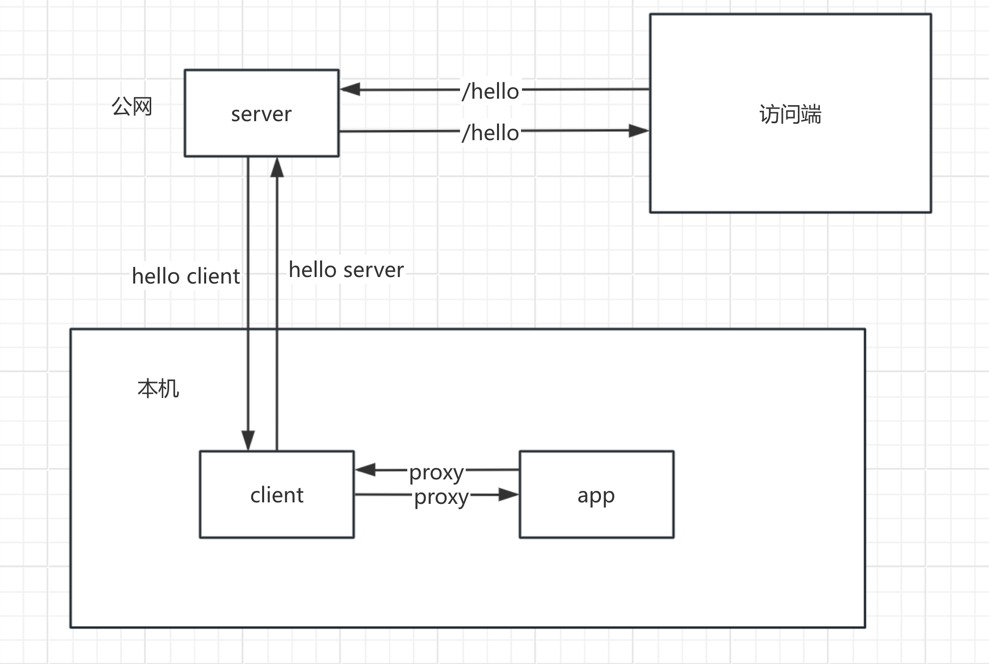
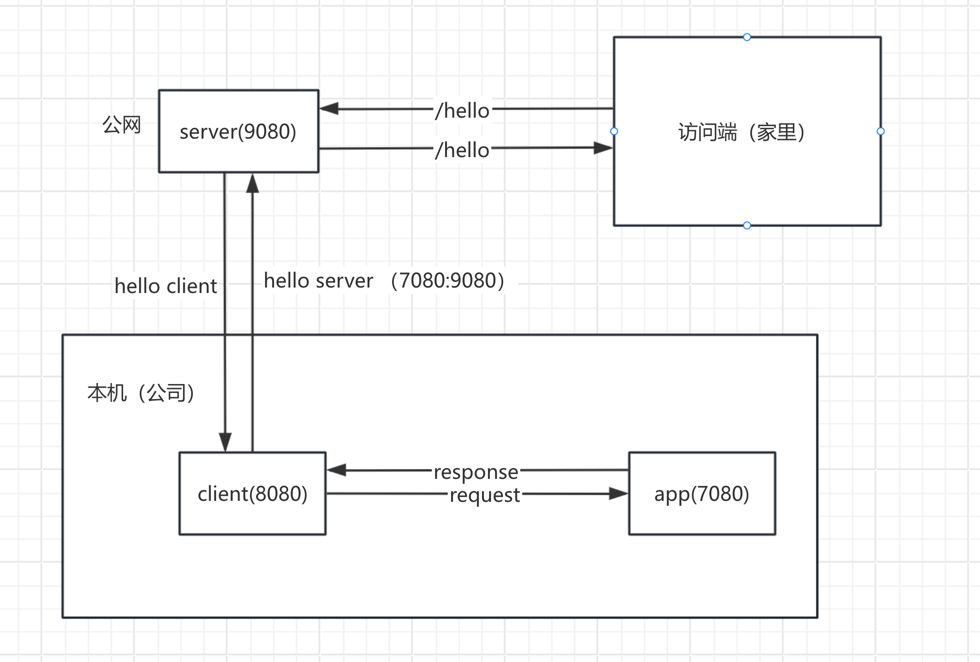
refactor(internalpenetration): 重构内部渗透工具
- 重构了 CopyOnConn 函数，优化了数据复制逻辑
- 更新了 client 和 server 程序的实现，提高了代码复用性
- 改进了错误处理和日志

Changed region(s): [[0.0612, 0.0, 0.949, 0.9668]]

diff --git a/proxy/client/main.go b/proxy/client/main.go
@@ -2,14 +2,9 @@ package main
 
 import (
 	"fmt"
-	"log"
-	"net"
-	"os"
-	"os/exec"
-	"os/signal"
-	"syscall"
-
 	"github.com/songgao/water"
+	"log"
+	"os/exec"
 )
 
 func main() {
@@ -32,40 +27,41 @@ func main() {
 		log.Fatalf("Failed to set TUN IP address: %v", err)
 	}
 
-	serverConn, err := net.Dial("tcp", "127.0.0.1:9080")
-	if err != nil {
-		fmt.Println("Error dialing:", err)
-		return
-	}
-	defer serverConn.Close()
-
-	_, err = serverConn.Write([]byte("hello server"))
-	if err != nil {
-		fmt.Println("Error writing to server:", err)
-		return
-	}
-
-	buf := make([]byte, 1024)
-	n, err := serverConn.Read(buf)
-	if err != nil {
-		fmt.Println("Error reading from server:", err)
-		return
-	}
-	if msg := string(buf[:n]); msg != "hello client" {
-		fmt.Println("receive server request error!!!")
-		return
-	}
+	//serverConn, err := net.Dial("tcp", "127.0.0.1:9080")
+	//if err != nil {
+	//	fmt.Println("Error dialing:", err)
+	//	return
+	//}
+	//defer serverConn.Close()
+	//
+	//_, err = serverConn.Write([]byte("hello server"))
+	//if err != nil {
+	//	fmt.Println("Error writing to server:", err)
+	//	return
+	//}
+	//
+	//buf := make([]byte, 1024)
+	//n, err := serverConn.Read(buf)
+	//if err != nil {
+	//	fmt.Println("Error reading from server:", err)
+	//	return
+	//}
+	//if msg := string(buf[:n]); msg != "hello client" {
+	//	fmt.Println("receive server request error!!!")
+	//	return
+	//}
 
 	// 读取 TUN 设备的数据包
-	//buffer := make([]byte, 1024*1024)
-	//for {
-	//	n, err := tun.Read(buffer)
-	//	if err != nil {
-	//		log.Printf("Error reading from TUN device: %v", err)
-	//		continue
-	//	}
-	//	fmt.Printf("Received a packet of length %d\n", n)
-	//}
+	buffer := make([]byte, 1024*1024)
+	for {
+		n, err := tun.Read(buffer)
+		if err != nil {
+			log.Printf("Error reading from TUN device: %v", err)
+			continue
+		}
+		fmt.Printf("Received a packet of length %d\n", n)
+		fmt.Println(string(buffer[:n]))
+	}
 
 	//go func() {
 	//	_, err := io.Copy(serverConn, tun)
@@ -84,10 +80,10 @@ func main() {
 	//}()
 	//
 	// 处理系统信号，用于优雅退出
-	sigs := make(chan os.Signal, 1)
-	signal.Notify(sigs, syscall.SIGINT, syscall.SIGTERM)
-	<-sigs
-	fmt.Println("Received termination signal, exiting...")
+	//sigs := make(chan os.Signal, 1)
+	//signal.Notify(sigs, syscall.SIGINT, syscall.SIGTERM)
+	//<-sigs
+	//fmt.Println("Received termination signal, exiting...")
 }
 
 func setTunIpForMac(tunName, localIp, remoteIp, netmask string) error {

diff --git a/internalpenetration/util.go b/internalpenetration/util.go
@@ -1,12 +1,13 @@
 package internalpenetration
 
 import (
-	"fmt"
 	"io"
+	"log"
 	"net"
 	"sync"
 )
 
+// CopyOnConn 负责dst和src的数据复制
 func CopyOnConn(dst *net.TCPConn, src *net.TCPConn) {
 	defer dst.Close()
 	defer src.Close()
@@ -18,7 +19,7 @@ func CopyOnConn(dst *net.TCPConn, src *net.TCPConn) {
 		defer dst.CloseWrite()
 		_, err := io.Copy(dst, src)
 		if err != nil {
-			fmt.Printf("%s->%s Error writing to client: %v \n", src.LocalAddr(), dst.LocalAddr(), err)
+			log.Printf("%s->%s Error writing to client: %v \n", src.LocalAddr(), dst.LocalAddr(), err)
 			return
 		}
 	}()
@@ -28,7 +29,7 @@ func CopyOnConn(dst *net.TCPConn, src *net.TCPConn) {
 		defer src.CloseWrite()
 		_, err := io.Copy(src, dst)
 		if err != nil {
-			fmt.Printf("%s->%s Error writing to client: %v \n", dst.LocalAddr(), src.LocalAddr(), err)
+			log.Printf("%s->%s Error writing to client: %v \n", dst.LocalAddr(), src.LocalAddr(), err)
 			return
 		}
 	}()

diff --git a/internalpenetration.md b/internalpenetration.md
@@ -10,10 +10,19 @@
 
 ![img.png](img.png)
 
+请求流程：
+
+1. 启动 app 程序，并监听端口7080。
+2. 启动 server 程序，并监听端口9080。
+3. 启动 client 程序，与app，server建立连接。
+4. client程序：负责将**server请求**复制到**app**，**app响应**复制到**server**。
+5. server程序：负责将**app请求**复制到**client**，**client响应**复制到**app**。
+6. 示例程序，没有处理**连接异常时重试，重连等**问题，过一段时间需要重启client。
 
 示例代码：
 
-app.go：
+app(一个简单的http程序)：
+
 ```go
 package main
 
@@ -36,17 +45,15 @@ func main() {
 func hello(w http.ResponseWriter, r *http.Request) {
 	w.Write([]byte("Hello World from APP"))
 }
-
 ```
 
-客户端：
+client：
 
 ```go 
 package main
 
 import (
-	"fmt"
-	"io"
+	"demo-network/internalpenetration"
 	"log"
 	"net"
 	"os"
@@ -59,69 +66,61 @@ func main() {
 		log.Fatal("Error listening:", err)
 	}
 	defer listener.Close()
-	fmt.Println("Server is listening on port 8080")
+	log.Println("Client is listening on port 8080")
 
-	serverConn, err := net.Dial("tcp", "127.0.0.1:9080")
-	if err != nil {
-		fmt.Println("Error dialing:", err)
-		return
-	}
-	defer serverConn.Close()
-
-	_, err = serverConn.Write([]byte("hello server"))
-	if err != nil {
-		fmt.Println("Error writing to server:", err)
-		return
-	}
-
-	buf := make([]byte, 1024)
-	n, err := serverConn.Read(buf)
-	if err != nil {
-		fmt.Println("Error reading from server:", err)
-		return
-	}
-	if msg := string(buf[:n]); msg != "hello client" {
-		fmt.Println("receive server request error!!!")
-		return
-	}
-
-	httpConn, err := net.Dial("tcp", "127.0.0.1:7080")
-	if err != nil {
-		fmt.Println("Error dialing:", err)
-		return
-	}
-	defer httpConn.Close()
-
-	go func() {
-		_, err := io.Copy(httpConn, serverConn)
-		if err != nil {
-			fmt.Println("serverConn -> httpConn, Error writing to client:", err)
-			return
-		}
-	}()
-	go func() {
-		_, err := io.Copy(serverConn, httpConn)
-		if err != nil {
-			fmt.Println("httpConn -> serverConn, Error writing to client:", err)
-			return
-		}
-	}()
+	httpConn := getHttpConn()
+	serverConn := getServerConn()
+	internalpenetration.CopyOnConn(httpConn.(*net.TCPConn), serverConn.(*net.TCPConn))
 
 	stopChan := make(chan os.Signal)
 	signal.Notify(stopChan, os.Interrupt, os.Kill)
 	<-stopChan
 }
+
+func getHttpConn() net.Conn {
+	httpConn, err := net.Dial("tcp", "127.0.0.1:7080")
+	if err != nil {
+		defer httpConn.Close()
+		log.Println("Error dialing:", err)
+		return nil
+	}
+	return httpConn
+}
+func getServerConn() net.Conn {
+	serverConn, err := net.Dial("tcp", "127.0.0.1:9080")
+	if err != nil {
+		defer serverConn.Close()
+		log.Println("Error dialing:", err)
+		return nil
+	}
+
+	_, err = serverConn.Write([]byte("hello server"))
+	if err != nil {
+		log.Println("Error writing to server:", err)
+		return nil
+	}
+
+	buf := make([]byte, 1024)
+	n, err := serverConn.Read(buf)
+	if err != nil {
+		log.Println("Error reading from server:", err)
+		return nil
+	}
+	if msg := string(buf[:n]); msg != "hello client" {
+		log.Println("receive server request error!!!")
+		return nil
+	}
+	return serverConn
+}
 ```
 
-
-服务端：
+server：
 
 ```go
 package main
 
 import (
-	"fmt"
-	"io"
+	"demo-network/internalpenetration"
 	"log"
 	"net"
 )
@@ -136,7 +135,7 @@ func main() {
 		log.Fatal("Error listening:", err)
 	}
 	defer listener.Close()
-	fmt.Println("Server is listening on port 9080")
+	log.Println("Server is listening on port 9080")
 
 	for {
 		conn, err := listener.Accept()
@@ -144,8 +143,7 @@ func main() {
 			log.Println("Error accepting connection:", err)
 			continue
 		}
-		fmt.Println("New client connected")
-
+		log.Println("New client connected")
 		go handleConnection(conn)
 	}
 }
@@ -153,17 +151,17 @@ func handleConnection(conn net.Conn) {
 	buf := make([]byte, 1024)
 	n, err := conn.Read(buf)
 	if err != nil {
-		fmt.Println("Error reading from connection:", err)
-		conn.Close()
+		defer conn.Close()
+		log.Println("Error reading from connection:", err)
 		return
 	}
 
 	if msg := string(buf[:n]); msg == "hello server" {
-		fmt.Println("receive client request")
+		log.Println("receive client request")
+		_, _ = conn.Write([]byte("hello client"))
 		clientConn = conn
-		_, err = conn.Write([]byte("hello client"))
 	} else {
-		fmt.Println("receive app request")
+		log.Println("receive app request")
 		handleAppRequest(buf[:n], conn)
 	}
 }
@@ -173,22 +171,51 @@ func handleAppRequest(buf []byte, conn net.Conn) {
 		return
 	}
 	_, _ = clientConn.Write(buf)
-	go func() {
-		_, err2 := io.Copy(clientConn, conn)
-		if err2 != nil {
-			fmt.Println("conn -> clientConn, Error writing to client:", err2)
-			return
-		}
-	}()
-	go func() {
-		_, err2 := io.Copy(conn, clientConn)
-		if err2 != nil {
-			fmt.Println("clientConn -> conn, Error writing to client:", err2)
-			return
-		}
-	}()
+	internalpenetration.CopyOnConn(clientConn.(*net.TCPConn), conn.(*net.TCPConn))
 }
 
+```
+
+util.go
+
+```go
+package internalpenetration
+
+import (
+	"io"
+	"log"
+	"net"
+	"sync"
+)
+
+// CopyOnConn 负责dst和src的数据复制
+func CopyOnConn(dst *net.TCPConn, src *net.TCPConn) {
+	defer dst.Close()
+	defer src.Close()
+	wg := sync.WaitGroup{}
+	wg.Add(2)
+
+	go func() {
+		defer wg.Done()
+		defer dst.CloseWrite()
+		_, err := io.Copy(dst, src)
+		if err != nil {
+			log.Printf("%s->%s Error writing to client: %v \n", src.LocalAddr(), dst.LocalAddr(), err)
+			return
+		}
+	}()
+
+	go func() {
+		defer wg.Done()
+		defer src.CloseWrite()
+		_, err := io.Copy(src, dst)
+		if err != nil {
+			log.Printf("%s->%s Error writing to client: %v \n", dst.LocalAddr(), src.LocalAddr(), err)
+			return
+		}
+	}()
+	wg.Wait()
+}
 ```
 
 
